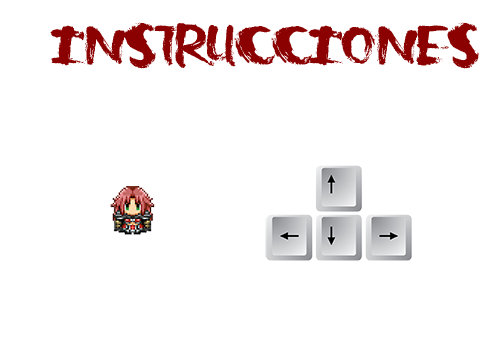
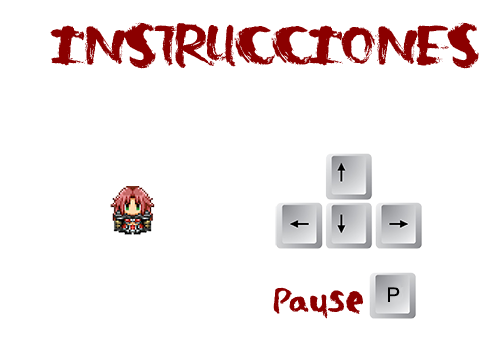
En clase Version 2.0 Animaciones

Changed region(s): [[0.51, 0.4286, 0.87, 0.7429], [0.54, 0.7714, 0.84, 0.9143]]

diff --git a/public_html/game.js b/public_html/game.js
@@ -67,9 +67,13 @@ var canvas = null;
 var ctx = null;
 var player = null;
 var then = Date.now();
+var pause = false;
+var gameover;
+var pisamadera = false;
+var maderaactual = null;
 
 function init() {
-
+    gameover = false;
     canvas = document.getElementById('canvas');
     ctx = canvas.getContext('2d');
     setMap(map, 10, 50);
@@ -90,6 +94,7 @@ function init() {
             35, //Tamaño y
             100 //Velocidad
             );
+    
     setInterval(run, 10);
     //run();
 }
@@ -149,6 +154,11 @@ function updateAnimation(anim) {
     }
 }
 
+//function startAnimation(anim) {
+//    if((~~(aTimer*10)%8)==100)
+//        anim.currentFrame++;
+//}
+
 var game = {
     images: 0,
     imagesLoaded: 0,
@@ -156,42 +166,108 @@ var game = {
 };
 
 var keysDown = {};
+var lastPress;
 window.addEventListener('keydown', function (e) {
     keysDown[e.keyCode] = true;
+    lastPress = e.keyCode;
 });
 window.addEventListener('keyup', function (e) {
     delete keysDown[e.keyCode];
 });
 
 function update(mod) {
-    if (37 in keysDown) {
-        player.currentState = 'left';
-        player.x -= player.speed * mod;
-        updateAnimation(player.stateAnimations[player.currentState]);
-    }
-    else if (39 in keysDown) {
-        player.currentState = 'right';
-        player.x += player.speed * mod;
-        updateAnimation(player.stateAnimations[player.currentState]);
-    }
-    else if (38 in keysDown) {
-        player.currentState = 'top';
-        player.y -= player.speed * mod;
-        updateAnimation(player.stateAnimations[player.currentState]);
-    }
-    else if (40 in keysDown) {
-        player.currentState = 'bot';
-        player.y += player.speed * mod;
-        updateAnimation(player.stateAnimations[player.currentState]);
+    if(!pause && !gameover){
+        if (37 in keysDown) {
+            player.currentState = 'left';
+            player.x -= player.speed * mod;
+            updateAnimation(player.stateAnimations[player.currentState]);
+            for(var i=0;i<black.length;i++){
+                if(player.intersects(black[i])){
+                    gameover = true;
+                }
+            }
+            for(var i=0;i<wood.length;i++){
+                if(player.intersects(wood[i])){
+                    maderaactual = wood[i];
+                    aTimer = 0;
+                    pisamadera = true;
+                }
+            }
+        }
+        else if (39 in keysDown) {
+            player.currentState = 'right';
+            player.x += player.speed * mod;
+            updateAnimation(player.stateAnimations[player.currentState]);
+            for(var i=0;i<black.length;i++){
+                if(player.intersects(black[i])){
+                    gameover = true;
+                }
+            }
+            for(var i=0;i<wood.length;i++){
+                if(player.intersects(wood[i])){
+                    maderaactual = wood[i];
+                    aTimer=0;
+                    pisamadera = true;
+                }
+            }
+        }
+        else if (38 in keysDown) {
+            player.currentState = 'top';
+            player.y -= player.speed * mod;
+            updateAnimation(player.stateAnimations[player.currentState]);
+            for(var i=0;i<black.length;i++){
+                if(player.intersects(black[i])){
+                    gameover = true;
+                }
+            }
+            for(var i=0;i<wood.length;i++){
+                if(player.intersects(wood[i])){
+                    maderaactual = wood[i];
+                    aTimer=0;
+                    pisamadera = true;
+                }
+            }
+            
+        }
+        else if (40 in keysDown) {
+            player.currentState = 'bot';
+            player.y += player.speed * mod;
+            updateAnimation(player.stateAnimations[player.currentState]);
+            for(var i=0;i<black.length;i++){
+                if(player.intersects(black[i])){
+                    gameover = true;
+                }
+            }
+            for(var i=0;i<wood.length;i++){
+                if(player.intersects(wood[i])){
+                    maderaactual = wood[i];
+                    aTimer=0;
+                    pisamadera = true;
+                }
+            }
+        } else if (lastPress == 13){
+            pause = true;
+            lastPress = null;
+        }
+        
+        aTimer+=mod;
+        if(aTimer>1){
+            aTimer-=1;
+            pisamadera = false;
+        }
+    } else if (lastPress == 13){
+        pause = false;
+        lastPress = null;
     }
 }
 
-Rectangle.prototype.intersects = function (rect) {
+Sprite.prototype.intersects = function (rect) {
     if (rect != null) {
-        return(this.x < rect.x + rect.width &&
-                this.x + this.width > rect.x &&
-                this.y < rect.y + rect.height &&
-                this.y + this.height > rect.y);
+        return(this.x < rect.x + rect.width -17 && //Izquierda
+                this.x + this.width -17 > rect.x && //Derecha
+                this.y < rect.y + rect.height -26 && //Arriba
+                this.y + this.height -8 > rect.y); //Abajo
+        //Los números que se restan son para compensar la posición del personaje
     }
 }
 
@@ -199,8 +275,6 @@ tabla = new Image();
 tabla.src = 'img/tabla.png';
 piedra = new Image();
 piedra.src = 'img/piedra.png';
-fondo = new Image();
-fondo.src = 'img/black_bg.png';
 
 function render() {
     ctx.fillStyle = '#000';
@@ -209,6 +283,9 @@ function render() {
     //Pintar Tablas de madera
     for (var i = 0; i < wood.length; i++) {
         ctx.drawImage(tabla, wood[i].x, wood[i].y);
+        //drawSprite(wood[i]);
+        //startAnimation(wood[i].stateAnimations[wood[i].currentState]);
+        //wood[i].drawImageArea(ctx,cam,spritesheet,50,50+(~~(aTimer*10)%8)*50,50,50);
     }
 
     //Pintar Piedras
@@ -227,6 +304,34 @@ function render() {
      ctx.font = '15pt Arial';
      ctx.textBaseline = 'top';
      ctx.fillText('Arrow keys to move left and right', 15, 15);*/
+    if(pause){
+        ctx.fillStyle = '#fff';
+        ctx.font = '80pt Arial';
+        ctx.textBaseline = 'top';
+        ctx.fillText('PAUSE!', 55, 95);
+    }
+    
+    ctx.fillStyle = '#fff';
+        ctx.font = '20pt Arial';
+        ctx.textBaseline = 'top';
+        ctx.fillText('aTimer = '+aTimer, 5, 5);
+    
+    if(gameover){
+        ctx.fillStyle = 'darkred';
+        ctx.font = '60pt zombie';
+        ctx.textBaseline = 'top';
+        ctx.fillText('GAME OVER', 55, 115);
+    }
+    
+    if(pisamadera){
+        //ctx.fillRect(maderaactual.x, maderaactual.y, maderaactual.x+50, maderaactual.y+50);
+        var index = wood.indexOf(maderaactual);
+        if (index > -1) {
+            wood.splice(index, 1);
+        }
+        maderaactual.drawImageArea(ctx,cam,spritesheet,0,0+(~~(aTimer*7)%9)*50,50,50);
+        //pisamadera = false;
+    }
 }
 
 //Hace correr el juego
@@ -269,10 +374,16 @@ function setMap(map, columns, blockSize) {
     var row = 0;
     stone.length = 0;
     wood.length = 0;
+    //var spriteTiles2 = new Tileset('img/sprites2.png', 50, 50);
+    //var spriteWoodDownAnim = new Animation(spriteTiles2, ['0,1','1,1','0,2','1,2',
+    //    '0,3','1,3','0,4','1,4','0,5','1,5'], 100);
+    //var spriteWoodAnim = new Animation (spriteTiles2, ['0,1'], 0);
+    //spritewood = new Sprite({'on': spriteWoodDownAnim, 'off': spriteWoodAnim}, 'off', x, y, 50, 50, 100);
     for (var i = 0, l = map.length; i < l; i++) {
         if (map[i] == 0)
             black.push(new Rectangle(col * blockSize, row * blockSize, blockSize, blockSize));
         else if (map[i] == 1)
+            //wood.push(new Sprite({'on': spriteWoodDownAnim, 'off': spriteWoodAnim}, 'on', col * blockSize, row * blockSize, 50, 50, 100))
             wood.push(new Rectangle(col * blockSize, row * blockSize, blockSize, blockSize));
         else if (map[i] == 2)
             stone.push(new Rectangle(col * blockSize, row * blockSize, blockSize, blockSize));
@@ -290,3 +401,28 @@ function setMap(map, columns, blockSize) {
     //worldWidth=columns*blockSize;
     //worldHeight=row*blockSize;
 }
+
+var cam=new Camera();
+var aTimer=0;
+var spritesheet=new Image();
+    spritesheet.src='img/sprites2.png';
+    
+     Rectangle.prototype.drawImageArea=function(ctx,cam,img,sx,sy,sw,sh){
+        if(cam!=null){
+            if(img.width)
+                ctx.drawImage(img,sx,sy,sw,sh,this.x-cam.x,this.y-cam.y,this.width,this.height);
+            else
+                ctx.strokeRect(this.x-cam.x,this.y-cam.y,this.width,this.height);
+        }
+        else{
+            if(img.width)
+                ctx.drawImage(img,sx,sy,sw,sh,this.x,this.y,this.width,this.height);
+            else
+                ctx.strokeRect(this.x,this.y,this.width,this.height);
+        }
+    }
+
+    function Camera(){
+        this.x=0;
+        this.y=0;
+    }
